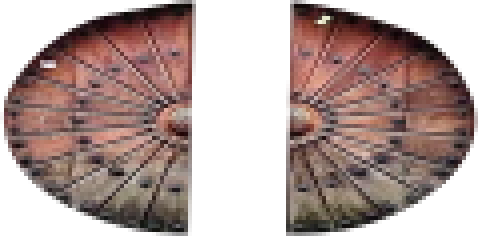
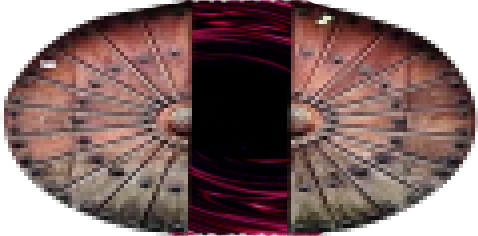
TowerEntrance Skeleton Complete

diff --git a/src/scenes/towerEntrance/TowerEntranceUnlocked.js b/src/scenes/towerEntrance/TowerEntranceUnlocked.js
@@ -1,0 +1,19 @@
+class TowerEntranceUnlocked extends Phaser.Scene {
+    constructor() {
+        super("towerEntranceUnlockedScene")
+    }
+
+    create(){
+        this.add.rectangle(0,0,width,playHeight,0x000000).setOrigin(0,0) //Backdrop of opened door
+        this.towerDoorway = new DoorWay(this, 482, 170, 'towerDoorClosed', 'towerEntranceScene', 'towerDoorOpen').setOrigin(0.5,0.5).setScale(1.2)
+        this.towerEntranceBG = this.add.image(0,0,'towerEntranceBG').setOrigin(0,0)
+
+        //this.towerMirror = this.add.image(30,4,'towerMirror').setOrigin(0,0)
+        this.mirror = new ClickableObject (this, 132, 150, 'brokenMirror', "Its so fragile...").setOrigin(0.5,0.5)
+
+        //MAKE CRAZY VERSION ONCE FINISHED
+        this.eye = new ClickableObject ( this, 805, 69, 'eyeBlink', "Its watching you...").setOrigin(0.5,0.5).play('eyeBlinkAnim')
+        this.mouth = new ClickableObject ( this, 805, 215, 'mouthSheet', "It seems to be smiling...").setOrigin(0.5,0.5).play('mouthAnim').setAngle(90).setScale(0.80)
+
+    }
+}

diff --git a/src/scenes/towerEntrance/MirrorShardCloseUp.js b/src/scenes/towerEntrance/MirrorShardCloseUp.js
@@ -6,11 +6,11 @@ class MirrorShardCloseUp extends Phaser.Scene
     }
 
     create(){
-         //add black bg so there isn't red clipping when the portal bg is rotating
+        //add black bg so there isn't red clipping when the portal bg is rotating
         this.add.rectangle(0,0,width,playHeight,0x000000).setOrigin(0,0)
         this.sceneBG = this.add.image(width/2,playHeight/2,'portal').setOrigin(0.5,0.5)
-        this.mirrorShard = new FindableObject(this,225,180,'mirrorShard','towerUnlockedScene',-1).setOrigin(0.5,0.5)
-       // this.shard = new FindableObject(this,225,180,'mailBox','towerUnlockedScene',3).play('bottleAnim').setOrigin(0.5,0.5)
+        this.mirrorShard = new FindableObject(this,225,180,'mirrorShard','towerEntranceUnlockedScene',4).setOrigin(0.5,0.5)
+        // this.shard = new FindableObject(this,225,180,'mailBox','towerUnlockedScene',3).play('bottleAnim').setOrigin(0.5,0.5)
         
         //background rotate slowly
         this.tweens.add({

diff --git a/src/scenes/utility/UI.js b/src/scenes/utility/UI.js
@@ -27,6 +27,7 @@ class UI extends Phaser.Scene
         this.michaelImportant2 = this.add.image(760,playHeight+ 40,'michaelArm').setOrigin(0.5,0.5).setAlpha(0).setScale(.25).setRotation(-225)
         this.michaelImportant3 = this.add.image(890,playHeight+ 50,'michaelCreationFile').setOrigin(0.5,0.5).setAlpha(0)
         this.robertImportant1 = this.add.sprite(620,playHeight+ 120,'bottleSheet').play('bottleAnim').setOrigin(0.5,0.5).setAlpha(0).setScale(.20).setAngle(50)
+        this.robertImportant2 = this.add.image(760,playHeight+ 120,'mirrorShard').setOrigin(0.5,0.5).setAlpha(0).setScale(.25).setRotation(-225)
 
     //     //backarrow stuff NOT SURE WE WANT IT ANYMORE
     //     this.backArrow = this.add.image(50,50,'backArrow').setOrigin(0.5,0.5)
@@ -124,7 +125,7 @@ class UI extends Phaser.Scene
     this.itemsFound[3] = true
         break;
     case 4:
-
+    this.robertImportant2.setAlpha(1)
     this.itemsFound[4] = true
         break;
     case 5:

diff --git a/src/scenes/utility/load.js b/src/scenes/utility/load.js
@@ -61,6 +61,7 @@ class Load extends Phaser.Scene
         this.load.image('mirrorShard','./assets/images/TowerEntrance/MirrorShard.png')
         this.load.image('towerDoorClosed','./assets/images/TowerEntrance/DoorClosed.png')
         this.load.image('towerDoorOpen','./assets/images/TowerEntrance/DoorOpen.png')
+        this.load.image('brokenMirror','./assets/images/TowerEntrance/MirrorBroken.png')
         // this.load.image('towerMirror','./assets/images/TowerEntrance/Mirror.png')
         this.load.spritesheet('towerMirror','./assets/images/TowerEntrance/MirrorSheet.png',{frameWidth: 204, frameHeight: 300})
 

diff --git a/index.html b/index.html
@@ -20,6 +20,7 @@
     <script src = "./src/scenes/betweenScenes/TowerUnlocked.js"></script>
     <script src = "./src/scenes/towerEntrance/TowerEntrance.js"></script>
     <script src = "./src/scenes/towerEntrance/MirrorShardCloseUp.js"></script>
+    <script src = "./src/scenes/towerEntrance/TowerEntranceUnlocked.js"></script>
     <script src = "./src/scenes/robertRooms/RobertRoom.js"></script>
     <script src = "./src/scenes/robertRooms/BodyChamber.js"></script>
     <script src = "./src/scenes/michaelRooms/MichaelRoom.js"></script>

diff --git a/src/main.js b/src/main.js
@@ -13,7 +13,7 @@ let config = {
     },
     scene: [Load,Intro,
             Play,MaleBoxCloseUp,TowerUnlocked,TowerDoor,StairWell,
-            TowerEntrance,MirrorShardCloseUp,
+            TowerEntrance,MirrorShardCloseUp,TowerEntranceUnlocked,
             MichaelRoom, ShieldCloseUp, ComputerCloseUp, FurnaceCloseUp, FileCloseUp,
             RobertRoom,
             UI  ]

diff --git a/src/scenes/towerEntrance/TowerEntrance.js b/src/scenes/towerEntrance/TowerEntrance.js
@@ -54,6 +54,7 @@ class TowerEntrance extends Phaser.Scene {
         this.mirror.x = 1500 //Send it off screen
         this.mirrorBrokenFindable.x = 132
        }
+
     }
 
 }
